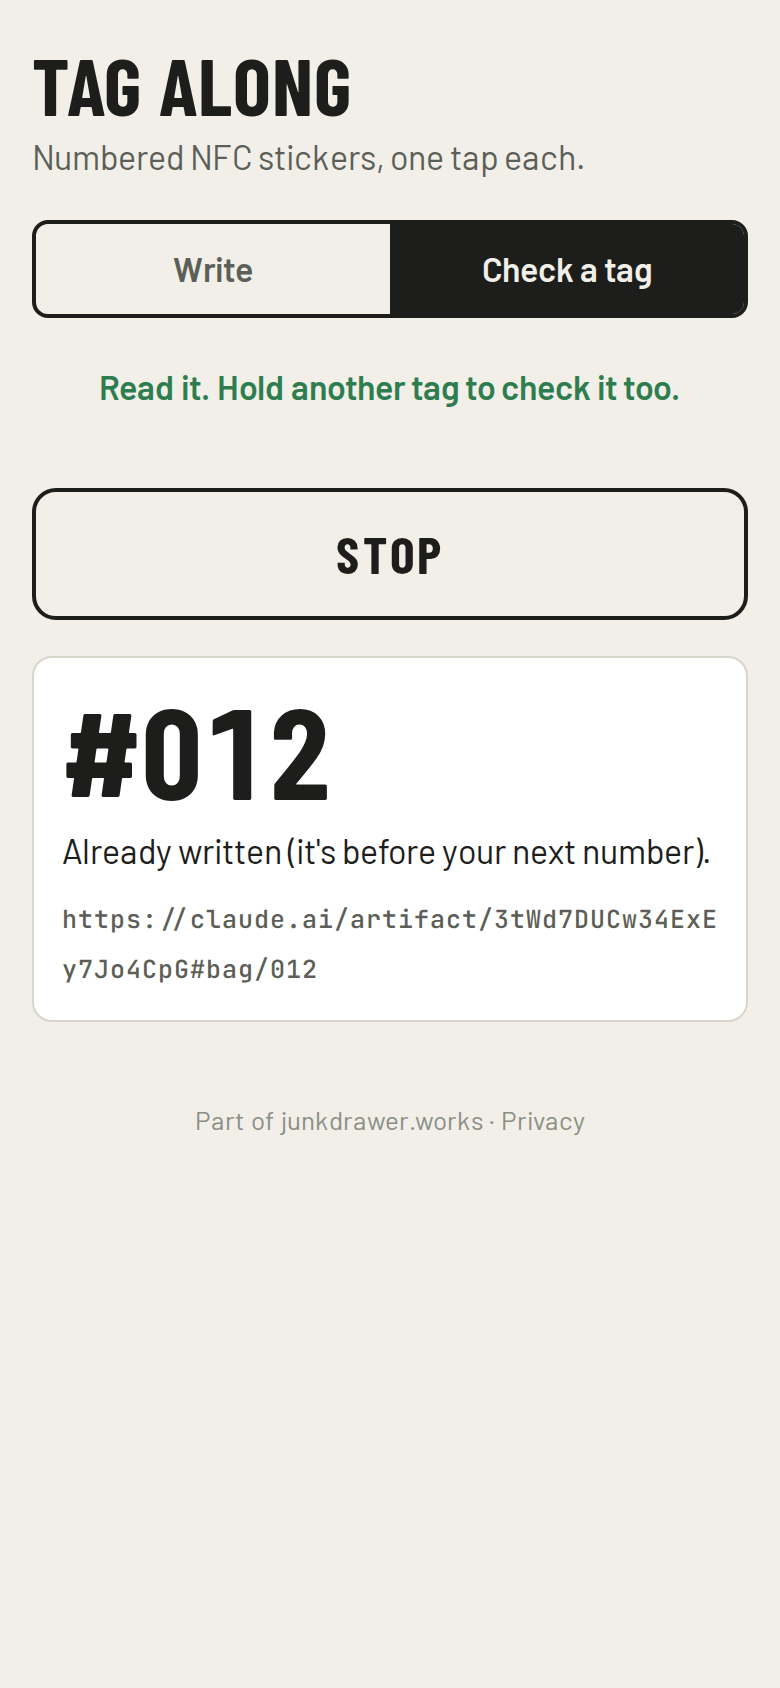
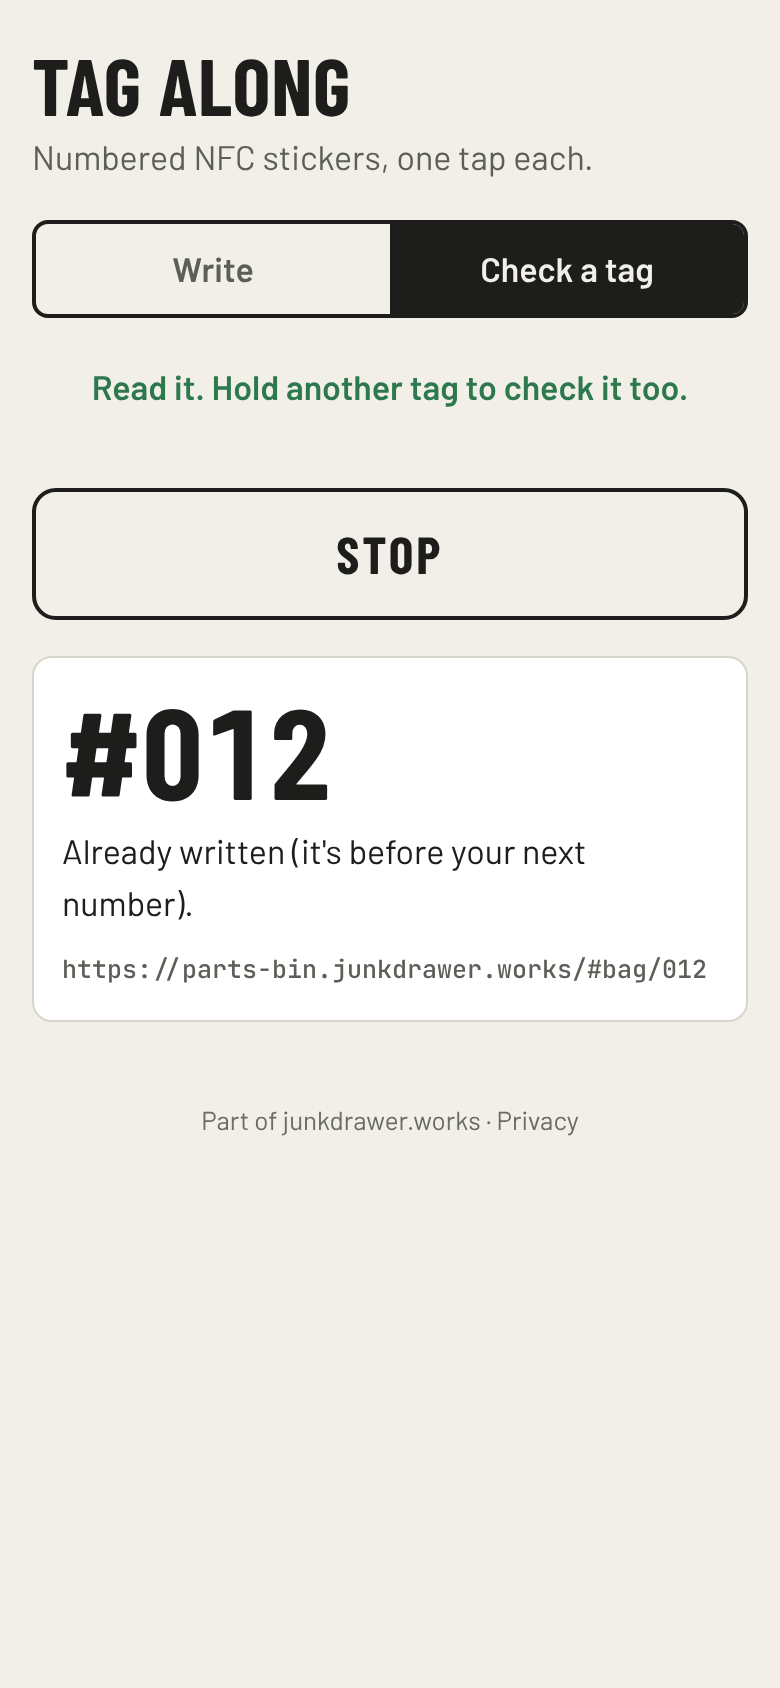
Redraw the README pictures with the Parts Bin link
The Check picture showed a tag holding the old Stockroom link on claude.ai, and
the README's description of it said so. tools/screenshots.mjs now plays a tag
with the Parts Bin link, and both phone pictures are drawn again, which also
shows the darker grey and green. og.png draws nothing from the app and is left
as it was. Follows Mark's answers to tag-along:7bd490f5 and
tag-along:152bb4b0.

Claude-Session: https://claude.ai/code/session_01N3tHmrVtD9q2Zcak1ErX34

diff --git a/README.md b/README.md
@@ -6,7 +6,7 @@
 
 <p align="center">
   <img src="docs/phone-write.png" width="250" alt="Write mode: a yellow label-maker tape reading #017 as the next tag, a green line saying #016 was written, and the numbers written so far listed below.">
-  <img src="docs/phone-check.png" width="250" alt="Check mode: a tag just read shows #012 in large type and the Stockroom link it holds.">
+  <img src="docs/phone-check.png" width="250" alt="Check mode: a tag just read shows #012 in large type and the Parts Bin link it holds.">
 </p>
 
 ## How it works
